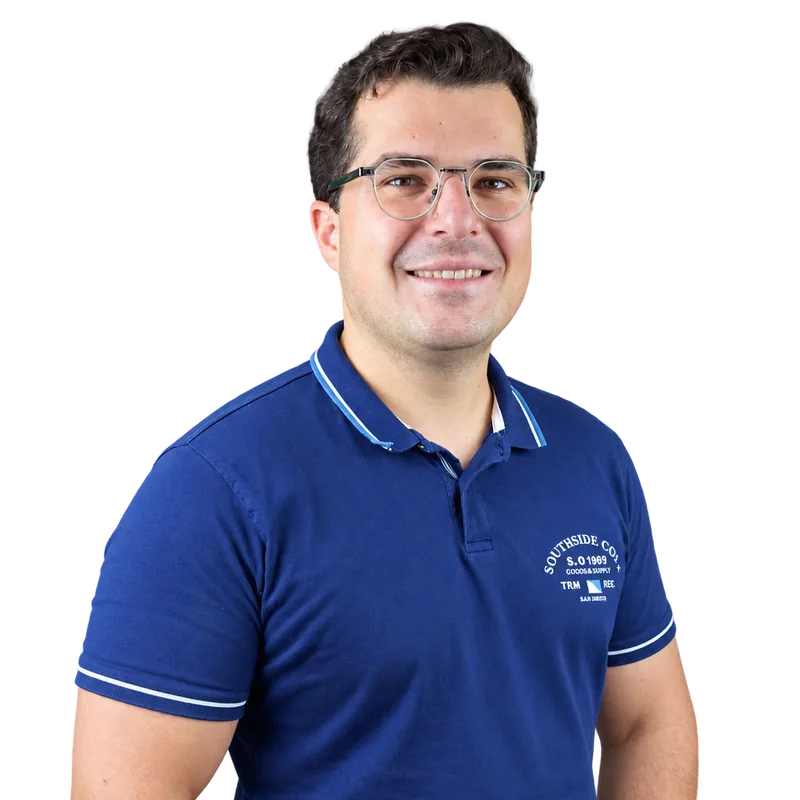
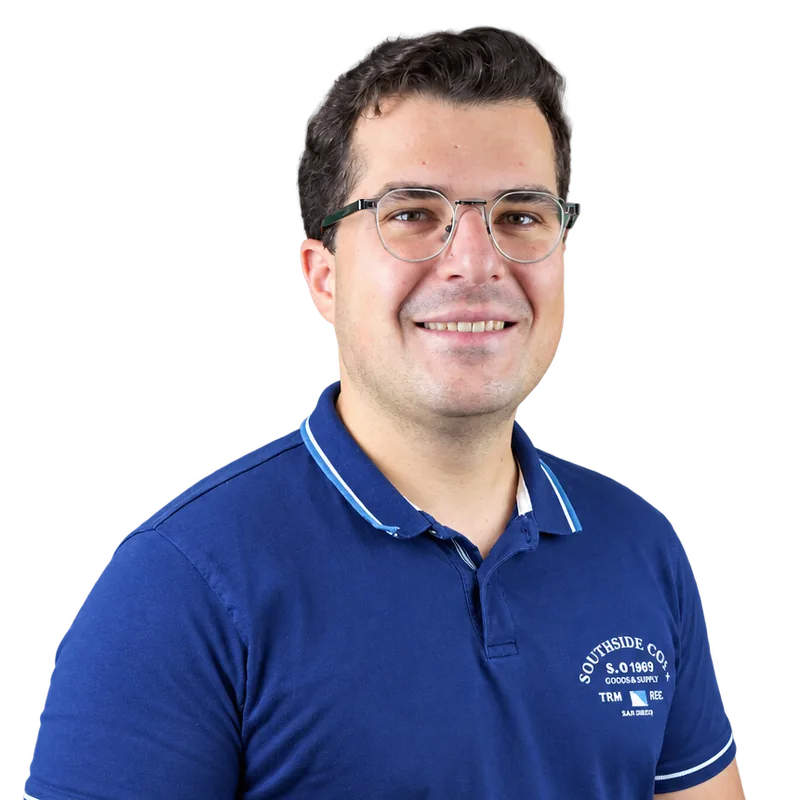
The founders move up behind the work, and the portraits come in tighter
The section sits directly after the portfolio now. The work is the
proof and the names are who made it; nine sections of systems in between
made the introduction read like an afterthought at the end.

The numbers moved with it. They signal reading order, so leaving them
alone would have run 01, 10, 02, 03. Founders takes 02 and everything
from the old 02 through 09 shifts up one, ProjectBuilder's and
EnterpriseTrust's hardcoded markers included. Verified against the
rendered page: 01 through 10 in order, with 04.1 and 06.1 following
their parents.

The crop was cutting at the hips, so both of you had trousers in frame.
It is 860 square off the top now rather than 1024: mid-chest, well clear
of the waistband, and pulled in at the sides so the frame is filled
rather than padded with empty studio. Cut from the originals again, one
identical region for both, which is what keeps the pair matched and the
two of you on one baseline. 54KB and 45KB.

Checked at 1440 and on a phone. The mobile pass reported no portraits at
first, which was my own probe reading the DOM before the observer that
gates them had fired, not a fault: the screenshot taken a moment later
has both.

Changed region(s): [[0.0312, 0.0, 0.9375, 1.0]]

diff --git a/src/app/App.tsx b/src/app/App.tsx
@@ -58,6 +58,11 @@ function HomePage({ theme, toggleTheme }: ThemeProps) {
             we work lands better once they have seen that we do. */}
         <div id="portfolio"><WorkMoment /></div>
 
+        {/* The work, then immediately the two people who did it. The proof and
+            the names belong next to each other; nine sections of systems in
+            between made the introduction read like an afterthought. */}
+        <div id="about"><FoundersNote /></div>
+
         <BenefitsPanel />
         <div id="services"><ValueProposition /></div>
 
@@ -74,8 +79,6 @@ function HomePage({ theme, toggleTheme }: ThemeProps) {
         <div id="billovio"><BillovioFeature /></div>
         <ProjectBuilder />
         <div id="why-deev"><EnterpriseTrust /></div>
-        {/* Nine sections of systems, then the two people behind them. */}
-        <div id="about"><FoundersNote /></div>
 
         {/* ── Dark act II: close on Luxembourg, the ask, the footer ── */}
         <div data-surface="dark">

diff --git a/src/app/components/ValueProposition.tsx b/src/app/components/ValueProposition.tsx
@@ -21,7 +21,7 @@ export default function ValueProposition() {
   const steps = t.home.values.steps.map((s, i) => ({ ...s, number: nn(i) }));
 
   return (
-    <Section index="03" eyebrow={t.home.values.eyebrow} tone={0}>
+    <Section index="04" eyebrow={t.home.values.eyebrow} tone={0}>
       <div className="max-w-[760px] mb-16">
         <SectionTitle>{t.home.values.title}</SectionTitle>
       </div>
@@ -69,7 +69,7 @@ export default function ValueProposition() {
 
       {/* ── §6E — process as a diagram ────────────────────────── */}
       <div className="mt-28">
-        <Eyebrow index="03.1">{t.home.values.processEyebrow}</Eyebrow>
+        <Eyebrow index="04.1">{t.home.values.processEyebrow}</Eyebrow>
 
         {/* desktop: nodes hung from one rule */}
         <div className="hidden md:block">

diff --git a/src/app/components/MarketingServices.tsx b/src/app/components/MarketingServices.tsx
@@ -31,7 +31,7 @@ export default function MarketingServices() {
   }));
 
   return (
-    <Section index="05" eyebrow={t.home.marketing.eyebrow} tone={1}>
+    <Section index="06" eyebrow={t.home.marketing.eyebrow} tone={1}>
       <div className="grid grid-cols-1 lg:grid-cols-12 gap-x-16 gap-y-12">
 
         <div className="lg:col-span-5">
@@ -105,7 +105,7 @@ export default function MarketingServices() {
             className="eyebrow-mono uppercase text-[var(--text-low)]"
             style={{ fontSize: "var(--t-label)", letterSpacing: "0.16em" }}
           >
-            <span className="text-[var(--metal)]">05.1</span> / {t.home.marketing.videosEyebrow}
+            <span className="text-[var(--metal)]">06.1</span> / {t.home.marketing.videosEyebrow}
           </span>
         </div>
 

diff --git a/src/app/components/FoundersNote.tsx b/src/app/components/FoundersNote.tsx
@@ -44,7 +44,7 @@ export default function FoundersNote() {
   if (!TEAM_READY) return null;
 
   return (
-    <Section index="10" eyebrow={t.home.founders.eyebrow} tone={1}>
+    <Section index="02" eyebrow={t.home.founders.eyebrow} tone={1}>
       <div className="grid grid-cols-1 lg:grid-cols-12 gap-x-16 gap-y-14 items-end">
 
         {/* ── The note ─────────────────────────────────────── */}

diff --git a/src/app/components/EnterpriseTrust.tsx b/src/app/components/EnterpriseTrust.tsx
@@ -40,7 +40,7 @@ export default function EnterpriseTrust() {
               className="eyebrow-mono uppercase text-[var(--text-low)]"
               style={{ fontSize: "var(--t-label)", letterSpacing: "0.16em" }}
             >
-              <span className="text-[var(--metal)]">09</span> / {t.home.trust.eyebrow}
+              <span className="text-[var(--metal)]">10</span> / {t.home.trust.eyebrow}
             </span>
           </div>
           <h2

diff --git a/src/app/components/ProjectBuilder.tsx b/src/app/components/ProjectBuilder.tsx
@@ -362,7 +362,7 @@ export default function ProjectBuilder() {
               className="eyebrow-mono uppercase text-[var(--text-low)]"
               style={{ fontSize: "var(--t-label)", letterSpacing: "0.16em" }}
             >
-              <span className="text-[var(--metal)]">08</span> / {t.builder.eyebrow}
+              <span className="text-[var(--metal)]">09</span> / {t.builder.eyebrow}
             </span>
           </div>
 

diff --git a/src/app/components/SystemStack.tsx b/src/app/components/SystemStack.tsx
@@ -128,7 +128,7 @@ function Header({ title, eyebrow }: { title: string; eyebrow: string }) {
           className="eyebrow-mono uppercase text-[var(--text-low)]"
           style={{ fontSize: "var(--t-label)", letterSpacing: "0.16em" }}
         >
-          <span className="text-[var(--metal)]">04</span> / {eyebrow}
+          <span className="text-[var(--metal)]">05</span> / {eyebrow}
         </span>
       </div>
       <h2

diff --git a/src/app/components/AiConcepts.tsx b/src/app/components/AiConcepts.tsx
@@ -22,7 +22,7 @@ export default function AiConcepts() {
   const METHOD = t.home.ai.method.map((m, i) => ({ ...m, index: String(i + 1).padStart(2, "0") }));
 
   return (
-    <Section index="06" eyebrow={t.home.ai.eyebrow} tone={0}>
+    <Section index="07" eyebrow={t.home.ai.eyebrow} tone={0}>
       <div className="grid grid-cols-1 lg:grid-cols-12 gap-x-16 gap-y-12">
 
         <div className="lg:col-span-5">

diff --git a/src/app/components/BillovioFeature.tsx b/src/app/components/BillovioFeature.tsx
@@ -50,7 +50,7 @@ export default function BillovioFeature() {
             className="eyebrow-mono uppercase text-[var(--text-mid)]"
             style={{ fontSize: "var(--t-label)", letterSpacing: "0.16em" }}
           >
-            07 / {t.home.billovio.eyebrow}
+            08 / {t.home.billovio.eyebrow}
           </span>
         </div>
 

diff --git a/src/app/components/BenefitsPanel.tsx b/src/app/components/BenefitsPanel.tsx
@@ -16,7 +16,7 @@ export default function BenefitsPanel() {
   }));
 
   return (
-    <Section index="02" eyebrow={t.home.benefits.eyebrow} tone={1}>
+    <Section index="03" eyebrow={t.home.benefits.eyebrow} tone={1}>
       <div className="grid grid-cols-1 lg:grid-cols-12 gap-x-16 gap-y-12">
 
         <div className="lg:col-span-5">

diff --git a/CLAUDE.md b/CLAUDE.md
@@ -27,9 +27,14 @@ tarball upload is reliable. Deploys alias to www.deev.lu automatically.
 Vercel blocks deploys when the commit email doesn't match a GitHub account.
 
 ## Layout of the page (src/app/App.tsx)
-Navbar → Hero → ClientLogos → SmeGrantBanner → Services (`ValueProposition`)
-→ SystemStack → Portfolio → BillovioFeature → ProjectBuilder → EnterpriseTrust
-("Why Deev") → FoundersNote ("About") → LuxembourgStrip → FinalCTA → Footer
+Navbar → Hero → ClientLogos → SmeGrantBanner → Portfolio (`WorkMoment`)
+→ FoundersNote ("About") → BenefitsPanel → Services (`ValueProposition`)
+→ SystemStack → MarketingServices → AiConcepts → BillovioFeature
+→ ProjectBuilder → EnterpriseTrust ("Why Deev") → LuxembourgStrip
+→ FinalCTA → Footer
+
+The numbered `NN /` eyebrows follow that order. Moving a section means
+renumbering the ones after it, or the sequence reads 01, 10, 02.
 
 Everything below the fold is `React.lazy` + `Suspense` for first-paint speed.
 
@@ -67,8 +72,8 @@ applied before paint by an inline script in `index.html` to avoid a flash.
 If you change the default, change it in **both** `index.html` and `App.tsx`.
 
 ## Content that needs real assets (do not invent)
-- `src/app/components/FoundersNote.tsx` ("10 / Who you'll work with") is wired
-  into App.tsx between Why Deev and the Luxembourg strip. It finds its photos by
+- `src/app/components/FoundersNote.tsx` ("02 / Who you'll work with") is wired
+  into App.tsx directly after the portfolio. It finds its photos by
   filename: drop `fabio.*` and `sven.*` into `src/assets/team` and they appear,
   no import needed. Until **both** files land the section is not in the page
   at all and the navbar drops its "About" link with it (`TEAM_READY` in
